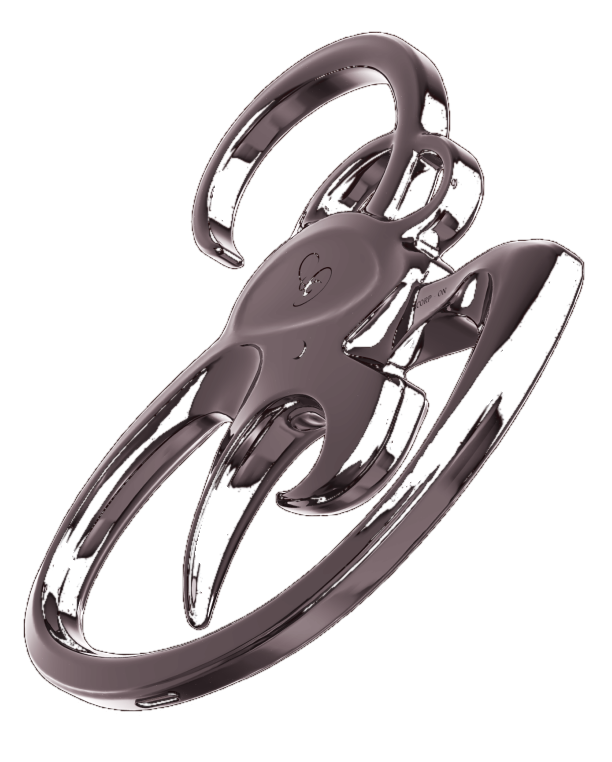
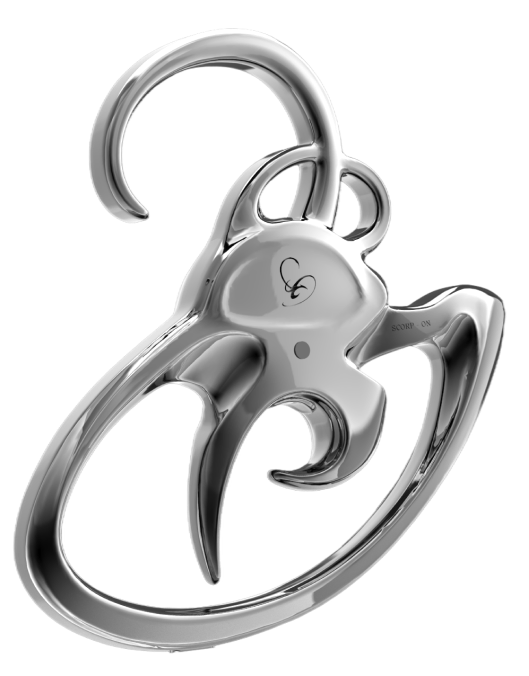
홈 제품 이미지를 Figma 실버 렌더(5994:1712)로 교체
- Figma 노드와 같이 hard-light 블렌드로 배경에 얹음
- 예전 제품 자국(작은 반사점)까지 배경 패치로 지움

Claude-Session: https://claude.ai/code/session_01877NMfzptBf3PyHvgMLsVb

diff --git a/index.html b/index.html
@@ -471,10 +471,10 @@ function go(to, dur = 400, ease = EASE.io, isBack = false) {
    ========================================================= */
 {
   const s = makeScreen('s1', 's1.png');
-  // product lifted out of the screenshot so it can float (clean background patch + cut-out)
+  // old baked-in product erased with a clean background patch; Figma silver render (5994:1712, hard-light) floats on top
   s.el.insertAdjacentHTML('beforeend',
     `<img src="img3/s1_bgpatch.png" alt="" style="position:absolute;left:96px;top:180px;width:204px;height:254px;max-width:none;pointer-events:none">` +
-    `<img class="float" src="img3/s1_product.png" alt="" style="left:96px;top:180px;width:204px;height:254px">`);
+    `<img class="float" src="img3/s1_product.png" alt="" style="left:101.5px;top:178.7px;width:194.7px;height:248.8px;mix-blend-mode:hard-light">`);
   hotspot(s, 254, 498, 118, 41, 's2', 400, EASE.io, 'Bluetooth');
   hotspot(s, 299, 69, 32, 32, 's128', 400, EASE.io, '알림');
   hotspot(s, 337, 69, 32, 32, 's124', 400, EASE.io, '설정');
